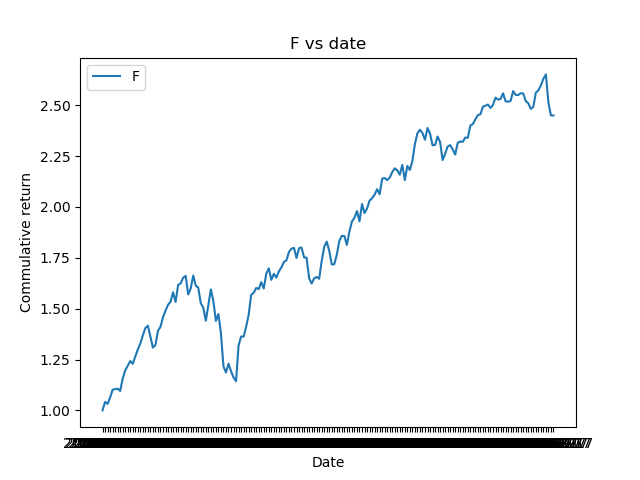
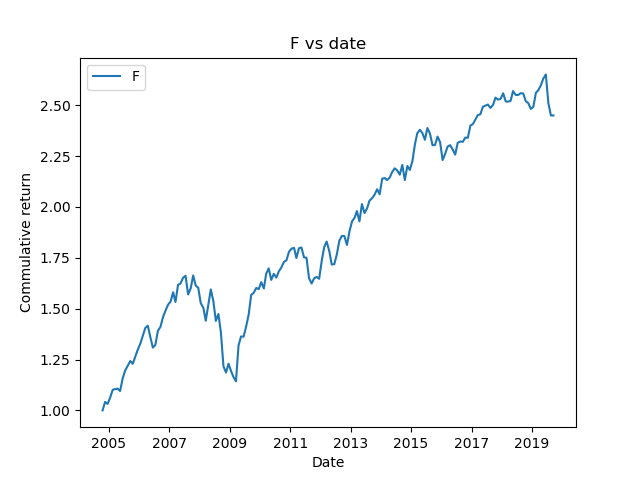
Resolved Date issue on x axis.

Changed region(s): [[0.0938, 0.875, 0.9375, 0.9375]]

diff --git a/solver_5.py b/solver_5.py
@@ -5,6 +5,8 @@ import numpy as np
 from sklearn.linear_model import LinearRegression
 import matplotlib.pyplot as plt
 import random as rand
+from datetime import datetime
+
 eps = 1
 r_f = 0.5
 
@@ -153,6 +155,7 @@ for company_name in companies:
 three_factors = []
 four_factors = []
 new_mom = []
+capm=[]
 # print(row_count)
 
 for x in range(row_count):
@@ -324,11 +327,13 @@ for x in range(row_count):
 	momlist.append(mom)
 
 	three_factors.append([f-r_f,hml,smb])
-
+	capm.append([f-r_f])
 	four_factors.append([f-r_f,hml,smb,mom])
 
 	t.append(x)
 
+
+C = np.array(capm, np.float32)
 Z = np.array(four_factors, np.float32)
 # Now three_factors is a list of list
 X = np.array(three_factors, np.float32)
@@ -360,14 +365,18 @@ for i in range(1,len(momlist)):
 # print(momlist)
 # print(hmllist)
 
-plt.plot(date,smblist,label='SMB')
-plt.plot(date,hmllist,label='HML')
-plt.plot(date,flist,label='F')
-# print(date)
-# plt.plot(date,momlist,label='MOM')
-plt.title('SMB+HML+F vs date')
+for i in range(len(date)):
+	date[i] = datetime.strptime(date[i], '%Y-%m-%d')
+#print(date)
+# plt.plot(date,smblist,label='SMB')
+# plt.plot(date,hmllist,label='HML')
+# plt.plot(date,flist,label='F')
+#print(date)
+plt.plot(date,momlist,label='MOM')
+plt.title('MOM vs date')
 plt.xlabel('Date')
 plt.ylabel('Commulative return')
+plt.locator_params(axis='x', nbins=10)
 plt.legend(loc=2)
 plt.show()
 
@@ -381,6 +390,7 @@ for company_name in companies:
 	# print(company_name," & ",round(model.intercept_,3)," & ",round(model.coef_[0],3)," & ",round(model.coef_[1],3)," & ",round(model.coef_[2],3)," \\\\")
 	# print(y,model.intercept_,model.coef_)
 
+# print("3factor = ",np.average(r_sq))
 # print("==============================================================================================================================================")
 # print("==============================================================================================================================================")
 # print("==============================================================================================================================================")
@@ -393,3 +403,15 @@ for company_name in companies:
 	model = LinearRegression().fit(Z, y)
 	r_sq = model.score(Z, y)
 	# print(company_name," & ",round(model.intercept_,3)," & ",round(model.coef_[0],3)," & ",round(model.coef_[1],3)," & ",round(model.coef_[2],3)," & ",round(model.coef_[3],3)," \\\\")
+# print("4factor = ",np.average(r_sq))
+
+
+for company_name in companies:
+	y = np.array(companies[company_name]['PIreturn'])
+	y = y - r_f
+	# print(y)
+	model = LinearRegression().fit(C, y)
+	r_sq = model.score(C, y)
+	# print(company_name," & ",round(model.intercept_,3)," & ",round(model.coef_[0],3)," \\\\")
+	# print(y,model.intercept_,model.coef_)
+# print("CAPM = ",np.average(r_sq))
